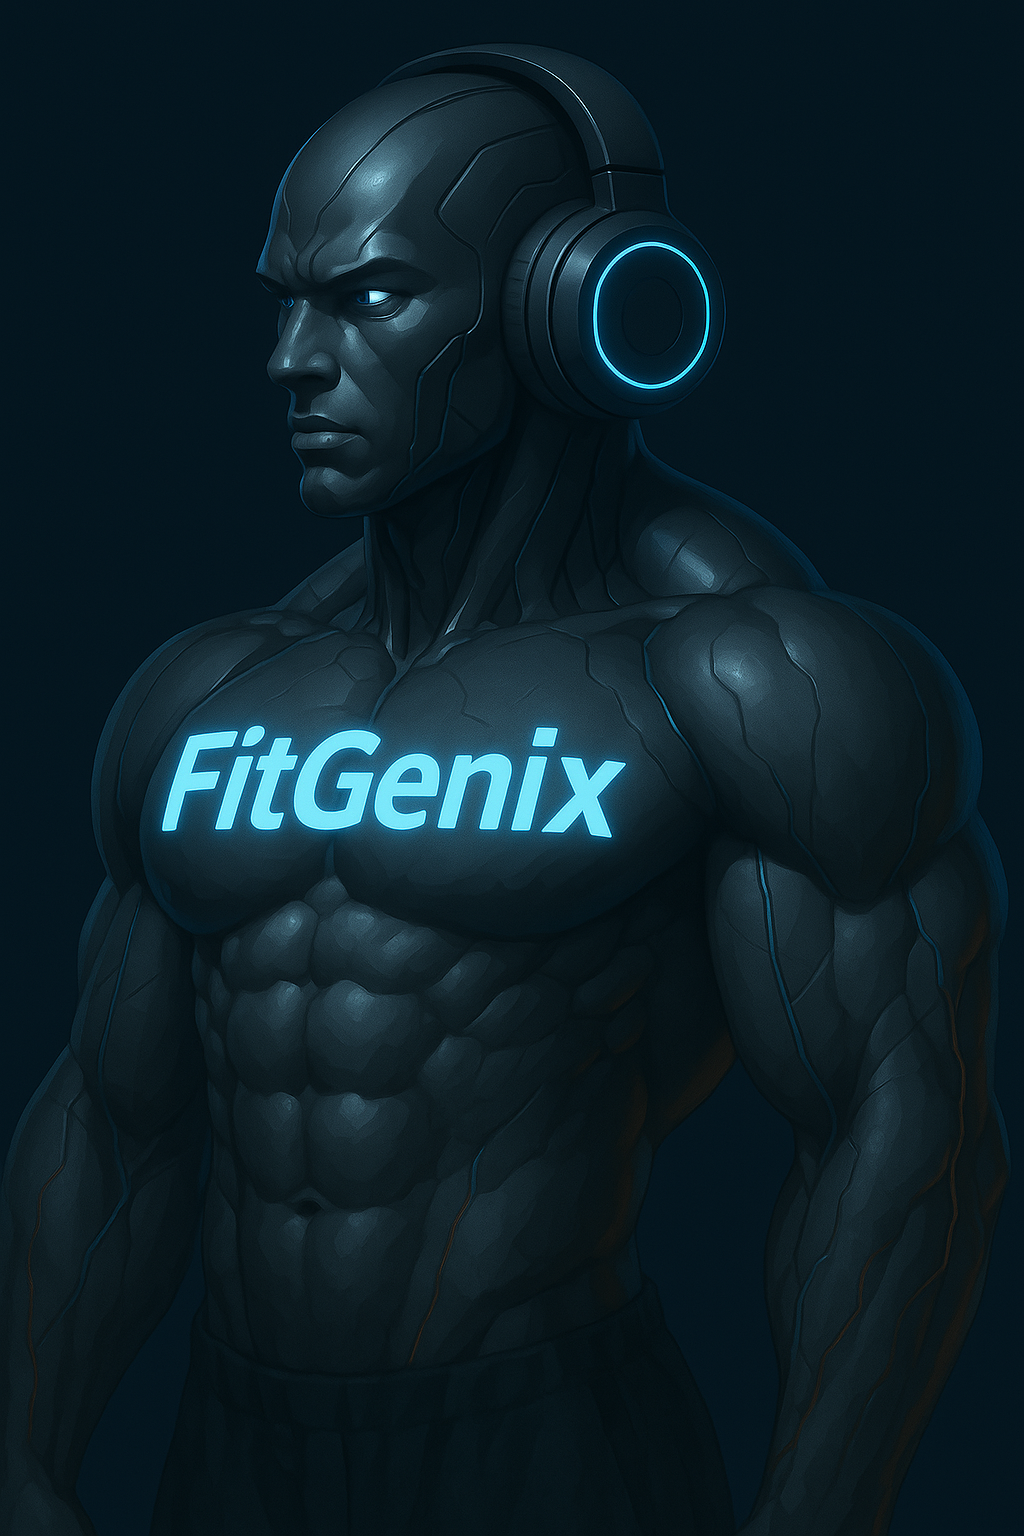
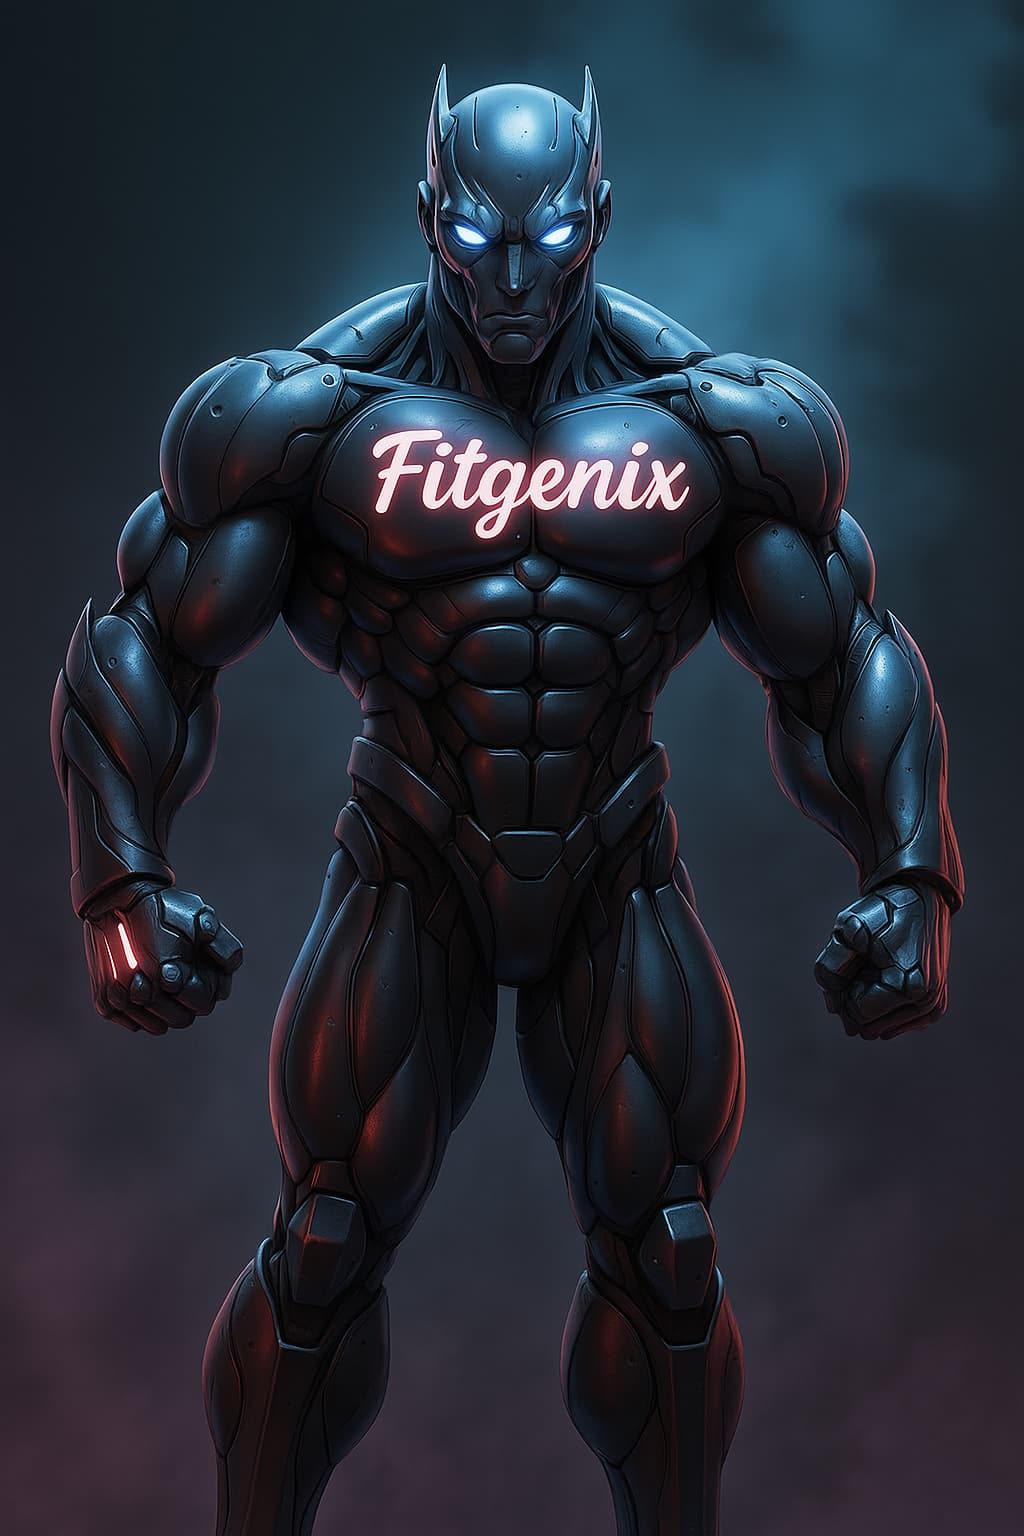
small changes

diff --git a/src/app/generate-program/page.tsx b/src/app/generate-program/page.tsx
@@ -204,7 +204,7 @@ const GeneratePage = () => {
                 <div className="relative w-full h-full rounded-full bg-card flex items-center justify-center border border-border overflow-hidden ">
                   <div className="absolute inset-0 bg-gradient-to-b from-primary/10 to-secondary/10 " />
                   <img
-                    src="/ai-avatar.png"
+                    src="/fit-genix-dp.jpg"
                     alt="AI Assistant"
                     className=" w-full h-full object-cover "
                   />

diff --git a/src/constants/index.ts b/src/constants/index.ts
@@ -2,7 +2,7 @@ export const USER_PROGRAMS = [
   {
     id: 1,
     first_name: "Sanjeev",
-    profilePic: "https://randomuser.me/api/portraits/men/78.jpg",
+    profilePic: "https://randomuser.me/api/portraits/men/94.jpg",
     fitness_goal: "Weight Loss",
     height: "5'6\"",
     weight: "165 lbs",
